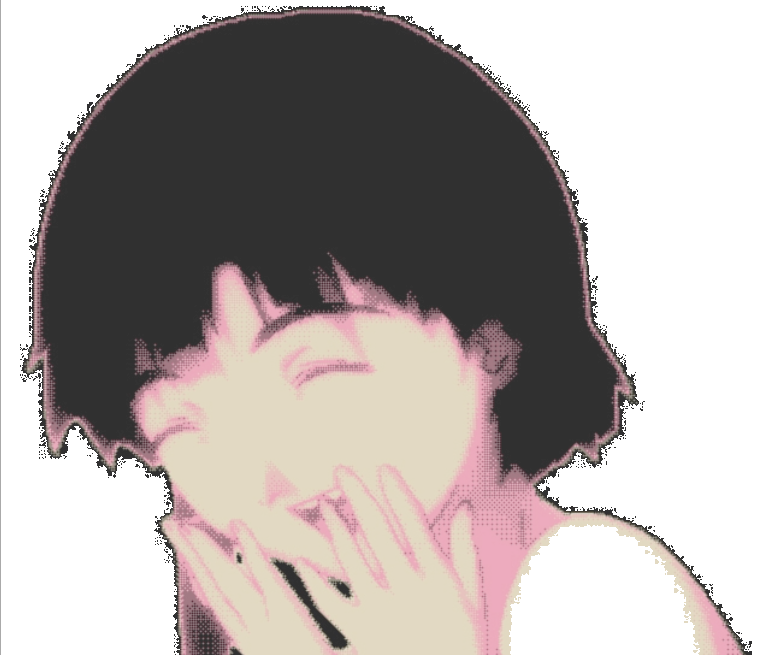
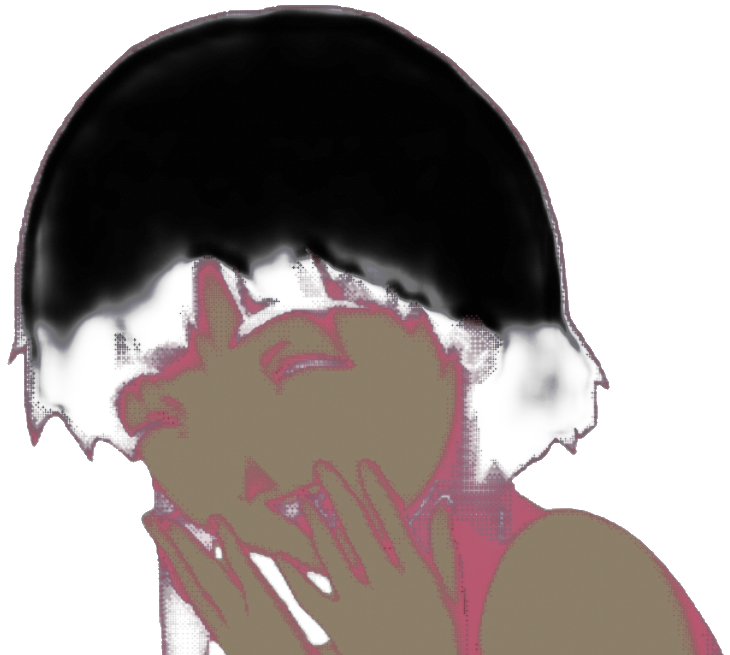
feat: refresh Archive portrait, declutter mobile About section
- Replaced the Archive section character accent with a new source image:
  removed its white background, cropped to head-only, color-matched her
  skin tone to the HOME hero character, and repositioned it centered above
  the second "i" in "Transmissions".
- Mobile About section: removed the redundant "// TRANSMISSION" blurb and
  dropped the "// NAV" block entirely (it just duplicated the always-visible
  bottom nav bar). "// SOCIAL SIGNALS" stays visible since those links are
  unique. Shrunk the oversized BUSINESS_INQUIRIES button. Fixed
  "MODULE .04 // ABOUT" sitting only 12px below its divider instead of the
  ~60px every other section uses.

diff --git a/production/js/sections2.js b/production/js/sections2.js
@@ -1394,6 +1394,7 @@ function Cta() {
 function BusinessContact() {
   const [state, setState] = React.useState('idle'); // 'idle' | 'copied' | 'failed'
   const winW = useWinW();
+  const isMobile = winW < 600;
   function handleCopy() {
     // ── UPDATE BUSINESS EMAIL HERE ──────────────────────────────────
     const emailUser = "baakagaijin";
@@ -1440,9 +1441,9 @@ function BusinessContact() {
       background: active ? 'rgba(143,191,159,0.08)' : hov ? 'rgba(143,191,159,0.06)' : 'none',
       border: `1px solid ${active ? WT2.green : hov ? 'rgba(143,191,159,0.75)' : 'rgba(143,191,159,0.3)'}`,
       cursor: 'pointer',
-      padding: '9px 18px',
+      padding: isMobile ? '7px 12px' : '9px 18px',
       fontFamily: WT2.mono,
-      fontSize: 11,
+      fontSize: isMobile ? 9.5 : 11,
       letterSpacing: winW < 900 ? 1.2 : 2.5,
       textTransform: 'uppercase',
       color: active ? WT2.green : failed ? WT2.red : hov ? WT2.green : WT2.dim,
@@ -1450,8 +1451,8 @@ function BusinessContact() {
       boxShadow: active ? `0 0 16px rgba(143,191,159,0.18), inset 0 0 12px rgba(143,191,159,0.06)` : hov ? '0 0 12px rgba(143,191,159,0.15), inset 0 0 8px rgba(143,191,159,0.04)' : 'none',
       transition: 'color .18s, border-color .18s, box-shadow .18s, text-shadow .18s, background .18s',
       outline: 'none',
-      display: 'block',
-      whiteSpace: winW < 600 ? 'normal' : 'nowrap'
+      display: isMobile ? 'inline-block' : 'block',
+      whiteSpace: isMobile ? 'normal' : 'nowrap'
     }
   }, label));
 }
@@ -1487,7 +1488,7 @@ function Footer() {
     id: "wt-wired",
     style: {
       borderTop: `1px solid ${WT2.line}`,
-      padding: narrow ? '12px 24px 32px' : '40px 56px 40px',
+      padding: narrow ? '60px 24px 32px' : '40px 56px 40px',
       position: 'relative',
       overflow: 'hidden'
     }
@@ -1566,50 +1567,7 @@ function Footer() {
       maxWidth: 260,
       lineHeight: 1.5
     }
-  }, "Lo-Fi House sound + Anime aesthetic.", /*#__PURE__*/React.createElement("br", null), "New transmissions every Saturday.", /*#__PURE__*/React.createElement("br", null), "A future independent label from the Wired."), /*#__PURE__*/React.createElement("div", {
-    style: {
-      borderTop: `1px solid ${WT2.line}`,
-      paddingTop: 14
-    }
-  }, /*#__PURE__*/React.createElement("div", {
-    style: {
-      fontFamily: WT2.mono,
-      fontSize: 9.5,
-      color: WT2.faint,
-      letterSpacing: 2.5,
-      marginBottom: 7
-    }
-  }, "// TRANSMISSION"), /*#__PURE__*/React.createElement("div", {
-    style: {
-      fontFamily: WT2.mono,
-      fontSize: 11,
-      color: WT2.faint,
-      letterSpacing: 0.5,
-      lineHeight: 1.6
-    }
-  }, "WEEBTRAX \xB7 LOW-FIDELITY HOUSE MIXES", /*#__PURE__*/React.createElement("br", null), "FROM CLUB CYBERIA"))), /*#__PURE__*/React.createElement("div", null, colLabel('// NAV'), /*#__PURE__*/React.createElement("div", {
-    style: {
-      display: 'grid',
-      gridTemplateColumns: '1fr 1fr',
-      gap: '10px 20px'
-    }
-  }, NAV.map(([label, id]) => /*#__PURE__*/React.createElement("a", {
-    key: id,
-    href: `#${id}`,
-    onClick: e => {
-      e.preventDefault();
-      scrollTo(id);
-    },
-    className: "wt-flink",
-    style: {
-      fontFamily: WT2.mono,
-      fontSize: 12.5,
-      color: WT2.body,
-      textDecoration: 'none',
-      letterSpacing: 1.5,
-      cursor: 'pointer'
-    }
-  }, label)))), /*#__PURE__*/React.createElement("div", null, colLabel('// SOCIAL SIGNALS'), /*#__PURE__*/React.createElement("div", {
+  }, "Lo-Fi House sound + Anime aesthetic.", /*#__PURE__*/React.createElement("br", null), "New transmissions every Saturday.", /*#__PURE__*/React.createElement("br", null), "A future independent label from the Wired.")), /*#__PURE__*/React.createElement("div", null, colLabel('// SOCIAL SIGNALS'), /*#__PURE__*/React.createElement("div", {
     style: {
       display: 'grid',
       gridTemplateColumns: '1fr 1fr',

diff --git a/production/css/mobile.css b/production/css/mobile.css
@@ -209,12 +209,15 @@ main { margin-left: 0 !important; }
   pointer-events: none;
 }
 
-/* Archive section character accent — right of "MODULE .01 // ARCHIVE", roughly centered on that header row */
+/* Archive section character accent — centered above the second "i" in the "Transmissions" title
+   (x=295 at the 390px reference width, measured via Range on the title text node), sitting in the
+   empty top-padding zone above "MODULE .01 // ARCHIVE" — horizontally clear of that prefix text
+   (which ends around x=162), so the two don't collide despite overlapping vertically. */
 .wt-archive-char-mobile {
   display: block !important;
   position: absolute;
   top: 44px;
-  right: 20px;
+  left: 273px;
   width: 44px;
   height: auto;
   z-index: 1;
